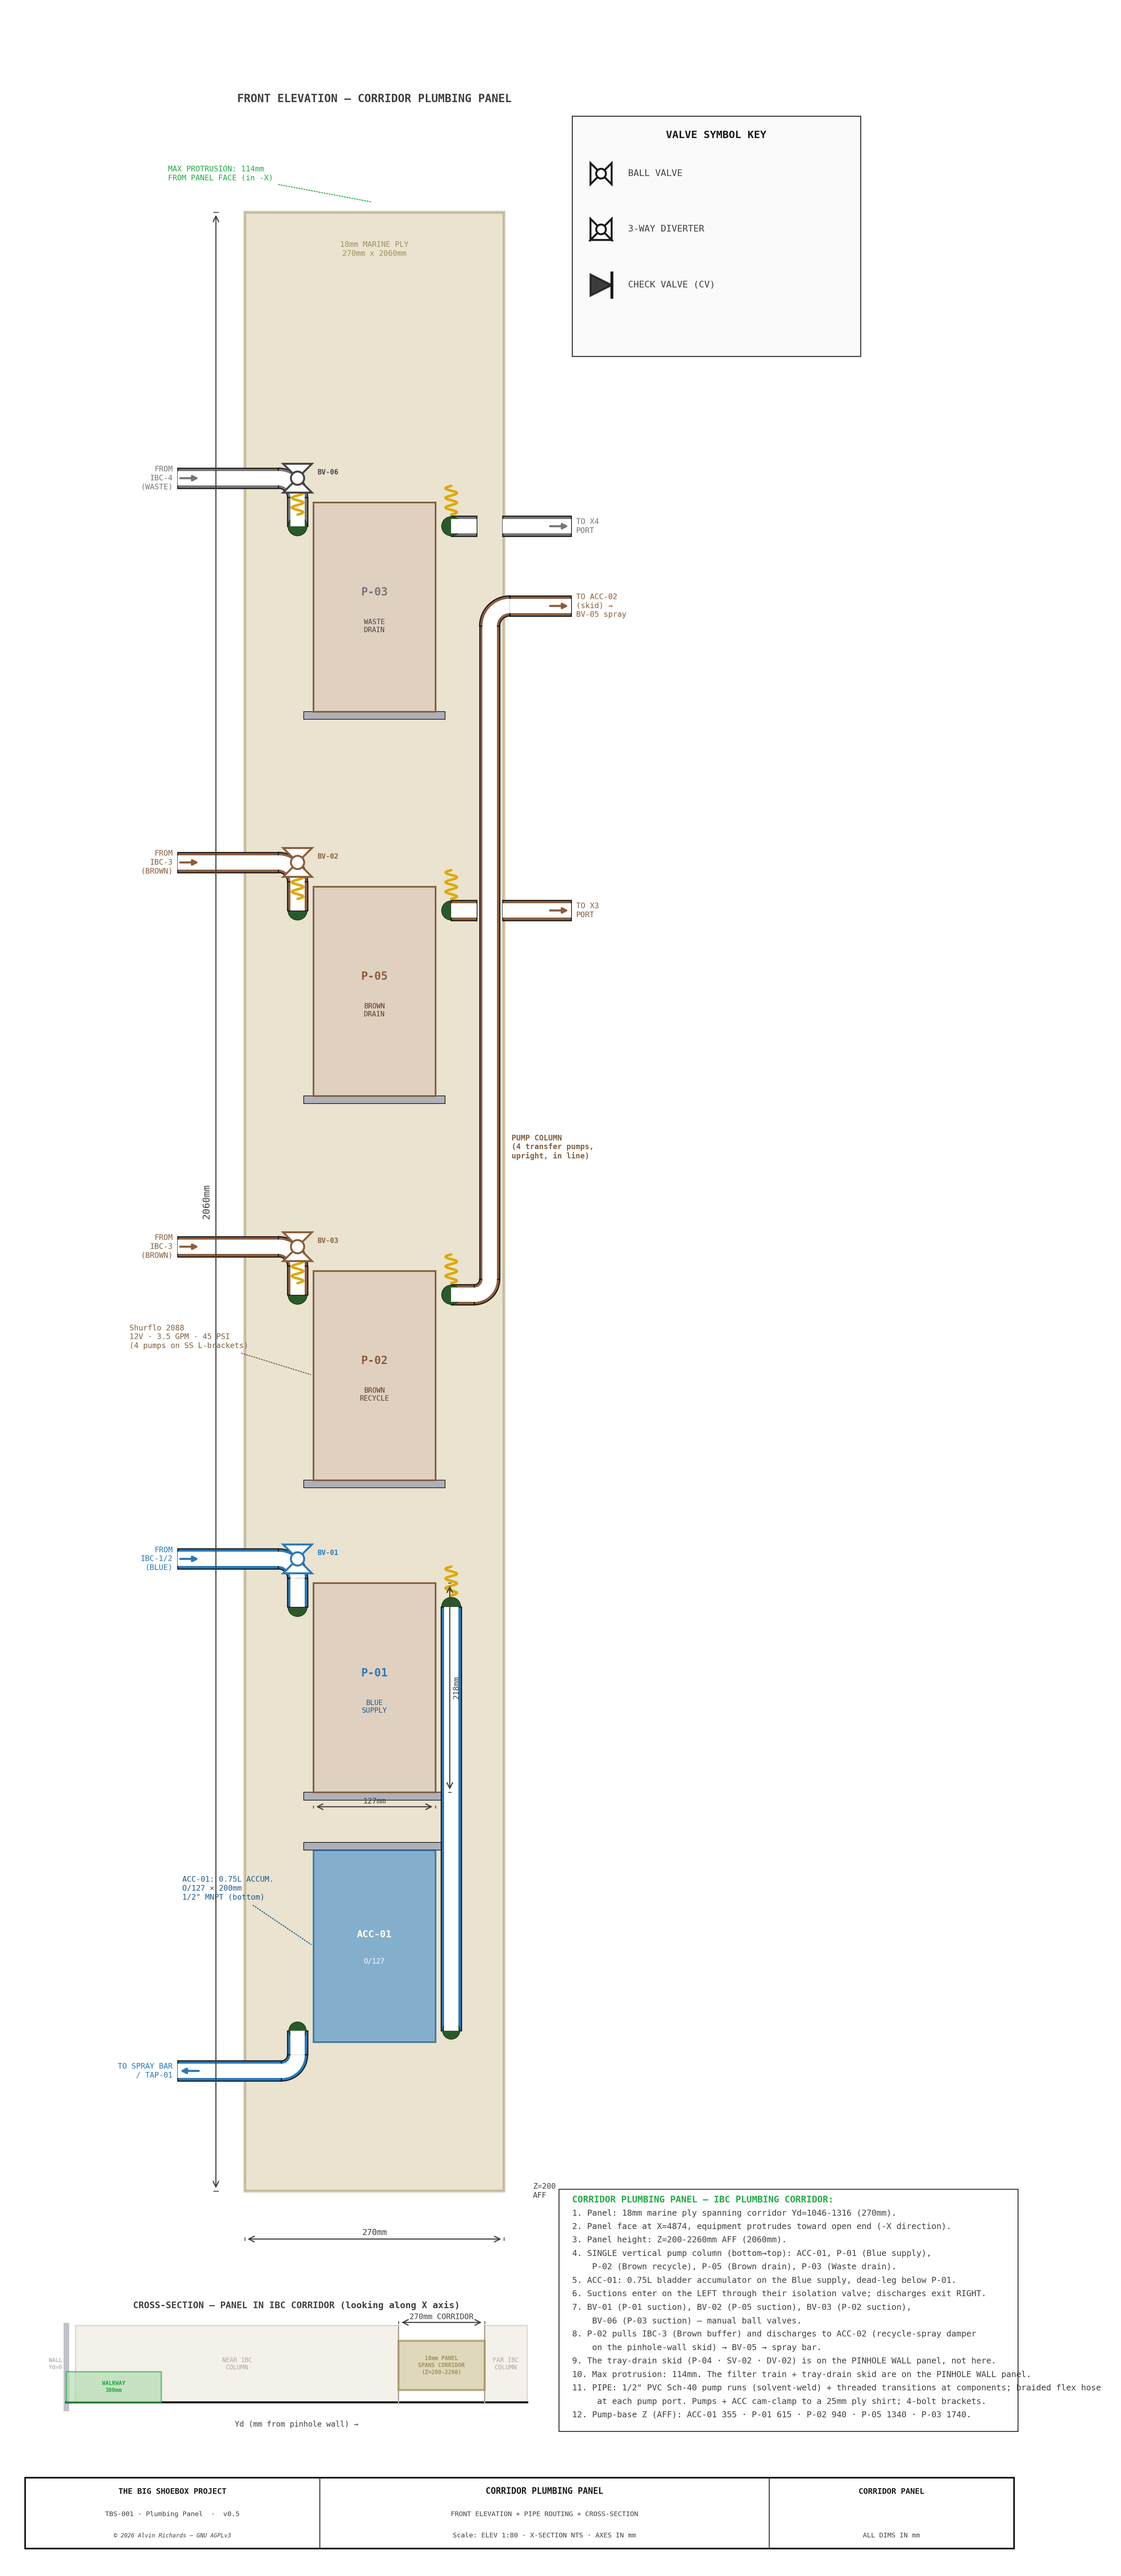
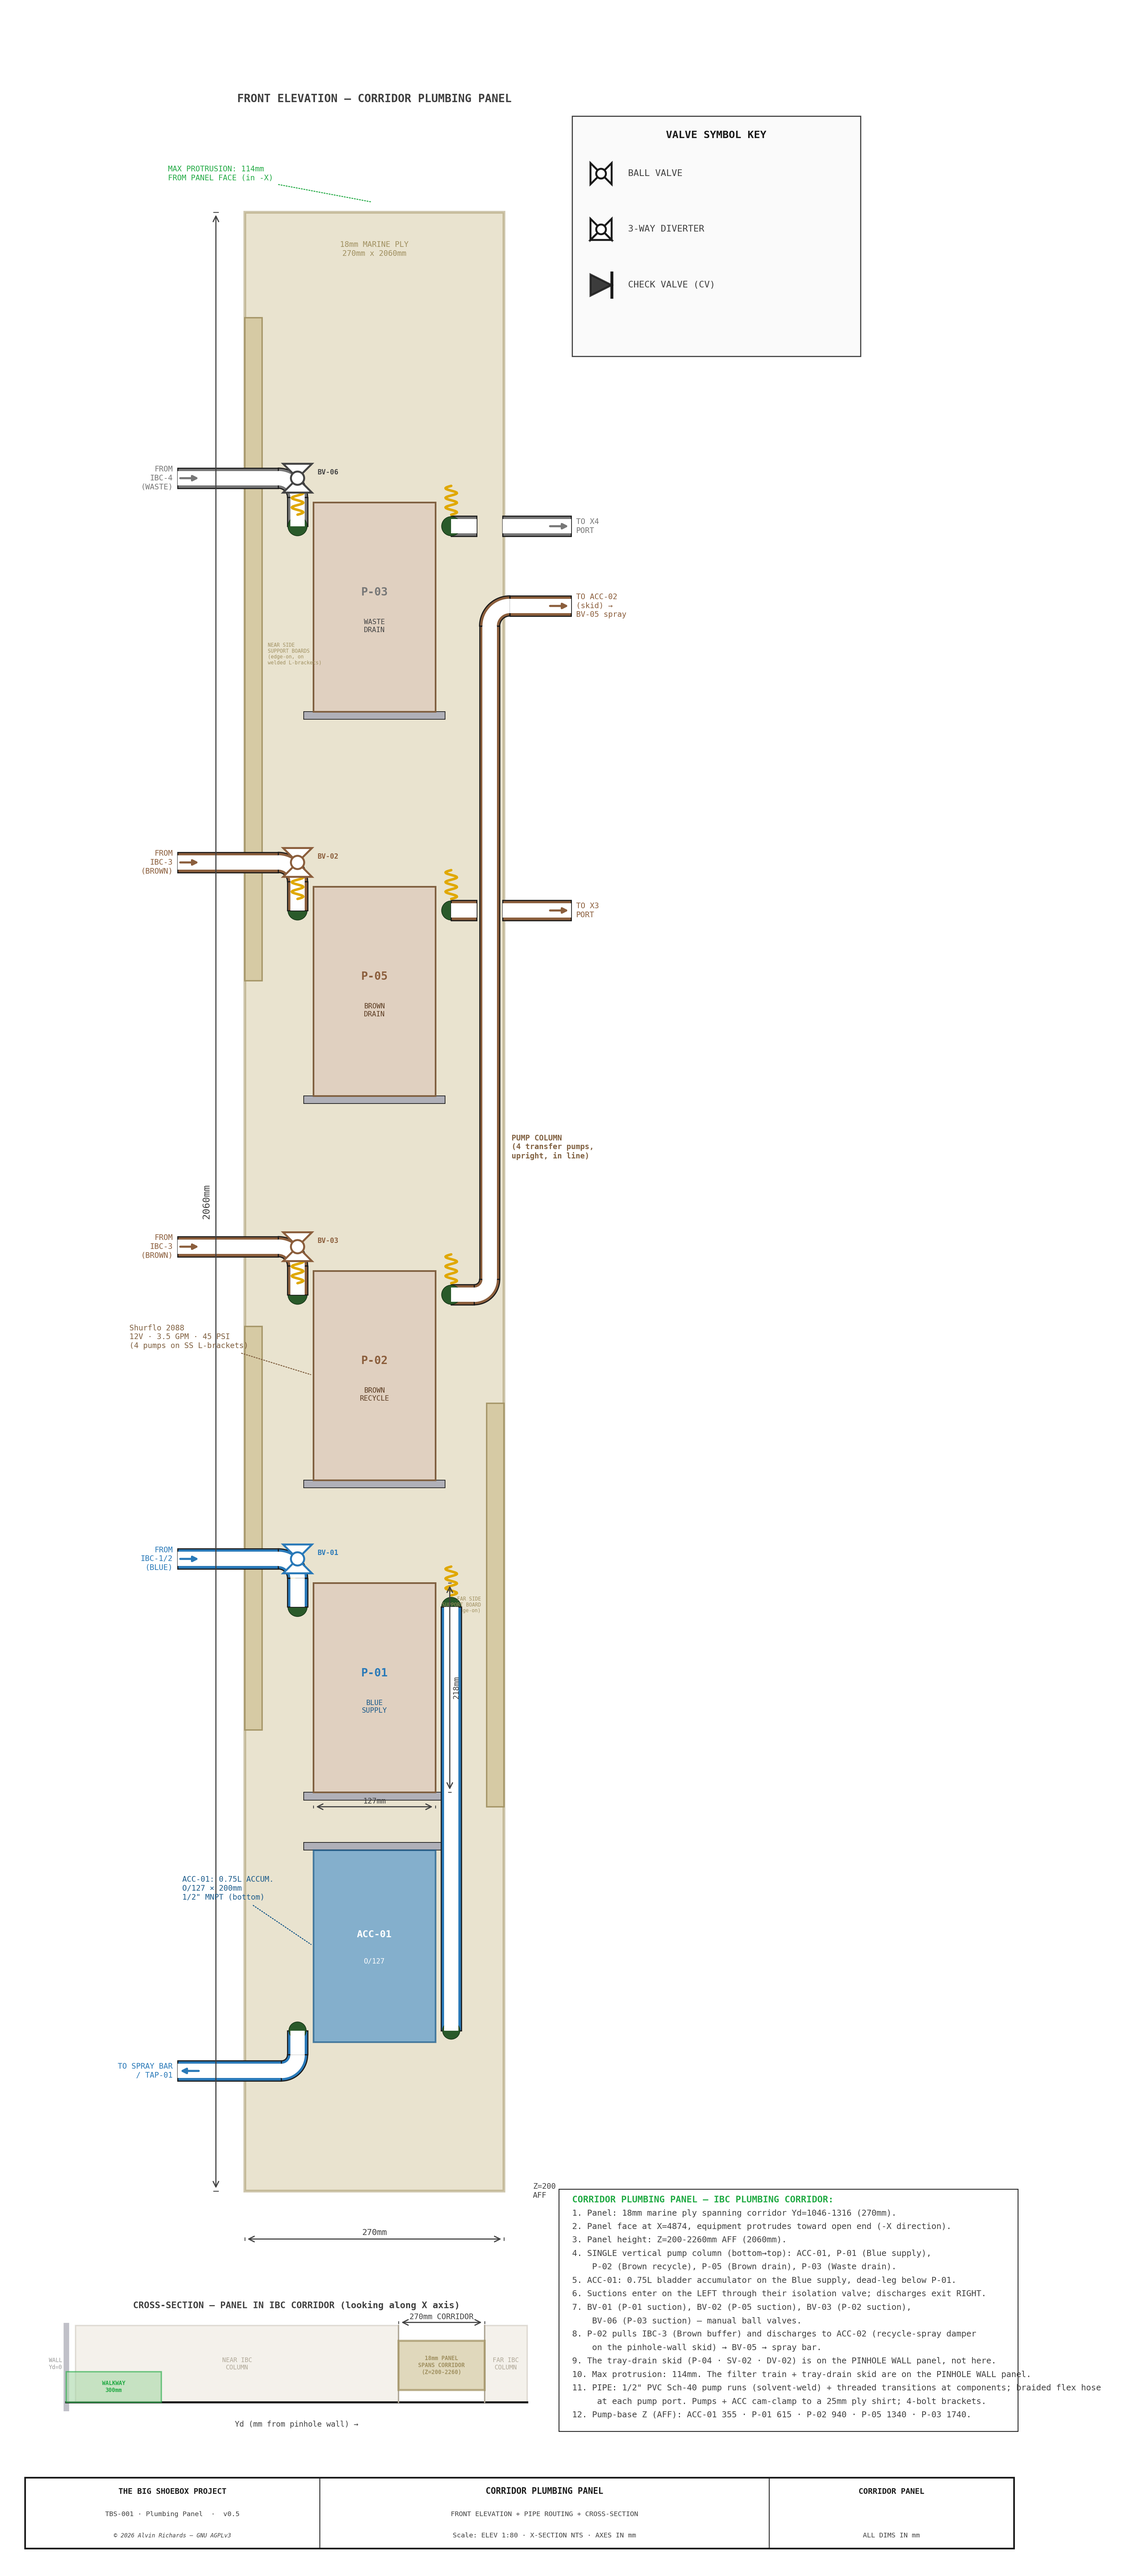
2D panel-layout + report narrative for pump-run supports (#29)
plumbing-report §5.3: the support scheme (flush ply boards on welded
L-brackets + cushioned P-clips; corridor side walls, spine far-side lines,
skid runs; valve operability). panel-layout front elevation now shows the
near/far side support boards edge-on at the corridor walls (the plane cuts
through them), labeled as on welded L-brackets.

Changed region(s): [[0.2181, 0.1245, 0.2493, 0.4046], [0.405, 0.5291, 0.4674, 0.7159], [0.2181, 0.498, 0.2493, 0.6847]]

diff --git a/src/generators/generate_panel_layout.py b/src/generators/generate_panel_layout.py
@@ -298,6 +298,18 @@ def draw_corridor_panel():
             ha="center", va="top",
             fontsize=5.5, color=C_PLY_EC, zorder=4, **FONT)
 
+    # ── #29 pump-run SIDE SUPPORT BOARDS — edge-on at the near/far corridor walls (this
+    #    front-elevation plane cuts through them); each is an 18mm ply board recessed flush on
+    #    welded steel L-brackets, the risers P-clipped to it. NEAR wall = local Yd 0 (lower board
+    #    Z480-900 + upper board Z1260-1950, backing BV-02/BV-06); FAR wall = local Yd PANEL_W (Z400-820).
+    SB_T = 18
+    for xb, z0b, z1b in ((0, 480, 900), (0, 1260, 1950), (PANEL_W - SB_T, 400, 820)):
+        rect(xb, z0b, SB_T, z1b - z0b, C_PLY, C_PLY_EC, lw=1.0, zorder=6, alpha=0.9)
+    ax.text(sx(SB_T + 6), sz(1600), "NEAR SIDE\nSUPPORT BOARDS\n(edge-on, on\nwelded L-brackets)",
+            ha="left", va="center", fontsize=3.6, color=C_PLY_EC, zorder=9, **FONT)
+    ax.text(sx(PANEL_W - SB_T - 6), sz(610), "FAR SIDE\nSUPPORT BOARD\n(edge-on)",
+            ha="right", va="center", fontsize=3.6, color=C_PLY_EC, zorder=9, **FONT)
+
     # ── PUMPS — SINGLE VERTICAL COLUMN ────────────────────────────────────
     #   Bottom→top: ACC-01 (below P-01), P-01, P-04, P-05, P-03.  All centered
     #   on PUMP_COL_C; IN/suction LEFT (CORR_PORT_IN), OUT/discharge RIGHT.

diff --git a/plumbing-report.md b/plumbing-report.md
@@ -346,6 +346,30 @@ close intervals. Keep runs off the sunniest wall face — PVC softens near 60 °
 retains > 200 PSI hot, far above service. (If a future deployment must travel wet or in freezing
 conditions, PEX is the tougher DIY alternative.)
 
+### 5.3 Pump-run supports
+
+The corridor pump risers and the back-of-panel drain runs cantilever off the pump ports and
+tote taps, so each is backed and clamped rather than left hanging on its solvent-weld joints.
+The method mirrors the rear panel: **18mm exterior-ply boards recessed flush** into the window
+between the IBC-frame front and rear side-posts, carried on **welded steel L-brackets** (one leg
+welded to each post inner face, the ply bolted to the landing leg), with the runs held to the
+board face by **cushioned P-clips**.
+
+- **Corridor side walls** — one board per wall. The far (film-plane) side backs the DV-01
+  recycle, P-02 discharge, and P-01→ACC-01 risers; the near side carries the P-02 suction riser
+  (with BV-03) on a lower board and BV-02 / BV-06 (P-05 / P-03 suction) on an upper board. Each
+  riser is pulled flush onto its board plane, and the DV-01 recycle line is re-routed off IBC-3
+  and down the far board before turning into DV-01.
+- **Drain-riser spine** — the three grey/brown waste risers clamp to the spine's near face; the
+  P-05→X3 and P-03→X4 lines running along the spine's far face toward the end wall clamp to it too.
+- **Filter skid** — the vertical skid runs (DV-02→F1, tray-sump→P-04, F3→SV-01) are pulled onto
+  the backing panel and clamped, with the ACC-02 / SV-01 / DV-02-row horizontals held to the panel.
+
+The near-board ball valves (BV-02 / BV-06) turn their handles into the open corridor and sit on
+forward loops at the walkway edge, so they clear the panel and stay reachable. Hardware: 3 side
+boards (cut from the corridor ply sheet — no added ply), 12 welded L-brackets, and 39 cushioned
+3/4" P-clips (§Parts).
+
 ---
 
 ## 6. Flow Paths

diff --git a/RELEASE.md b/RELEASE.md
@@ -43,8 +43,10 @@ file** — a release must not ship without a changelog entry:
   Z1080 with the flange seated on the cage edge and the run simplified (straight in, no drop-jog).
   3D done in **water** (`.skp` saved + uploaded). **BOM/cost:** 3 ply side boards (cut from the
   corridor 4×8 offcut — no added ply), 12 welded L-brackets, 39 cushioned 3/4" P-clips →
-  **+$33/$46/$61 water** (grand total $26,024/$30,492/$37,028). Cascade to
-  overview/ibc-stack/construction re-send + reports narrative + 2D panel-layout + interference pending.
+  **+$33/$46/$61 water** (grand total $26,024/$30,492/$37,028). **Cascade complete:**
+  overview/ibc-stack/construction re-sent + uploaded; interference re-audit clean (0 crossings,
+  after a hump on ACC-02→BV-05 to clear the nudged tray-sump riser); plumbing-report §5.3
+  support-scheme narrative; panel-layout 2D shows the side boards edge-on on their L-brackets.
 
 - **Spray-beam removal cycle (#28) closed as no-lift / park-and-roll.** Decided against a lift-out
   mechanism: the muslin loads by parking the gantry at the near end and rolling the beam back over
